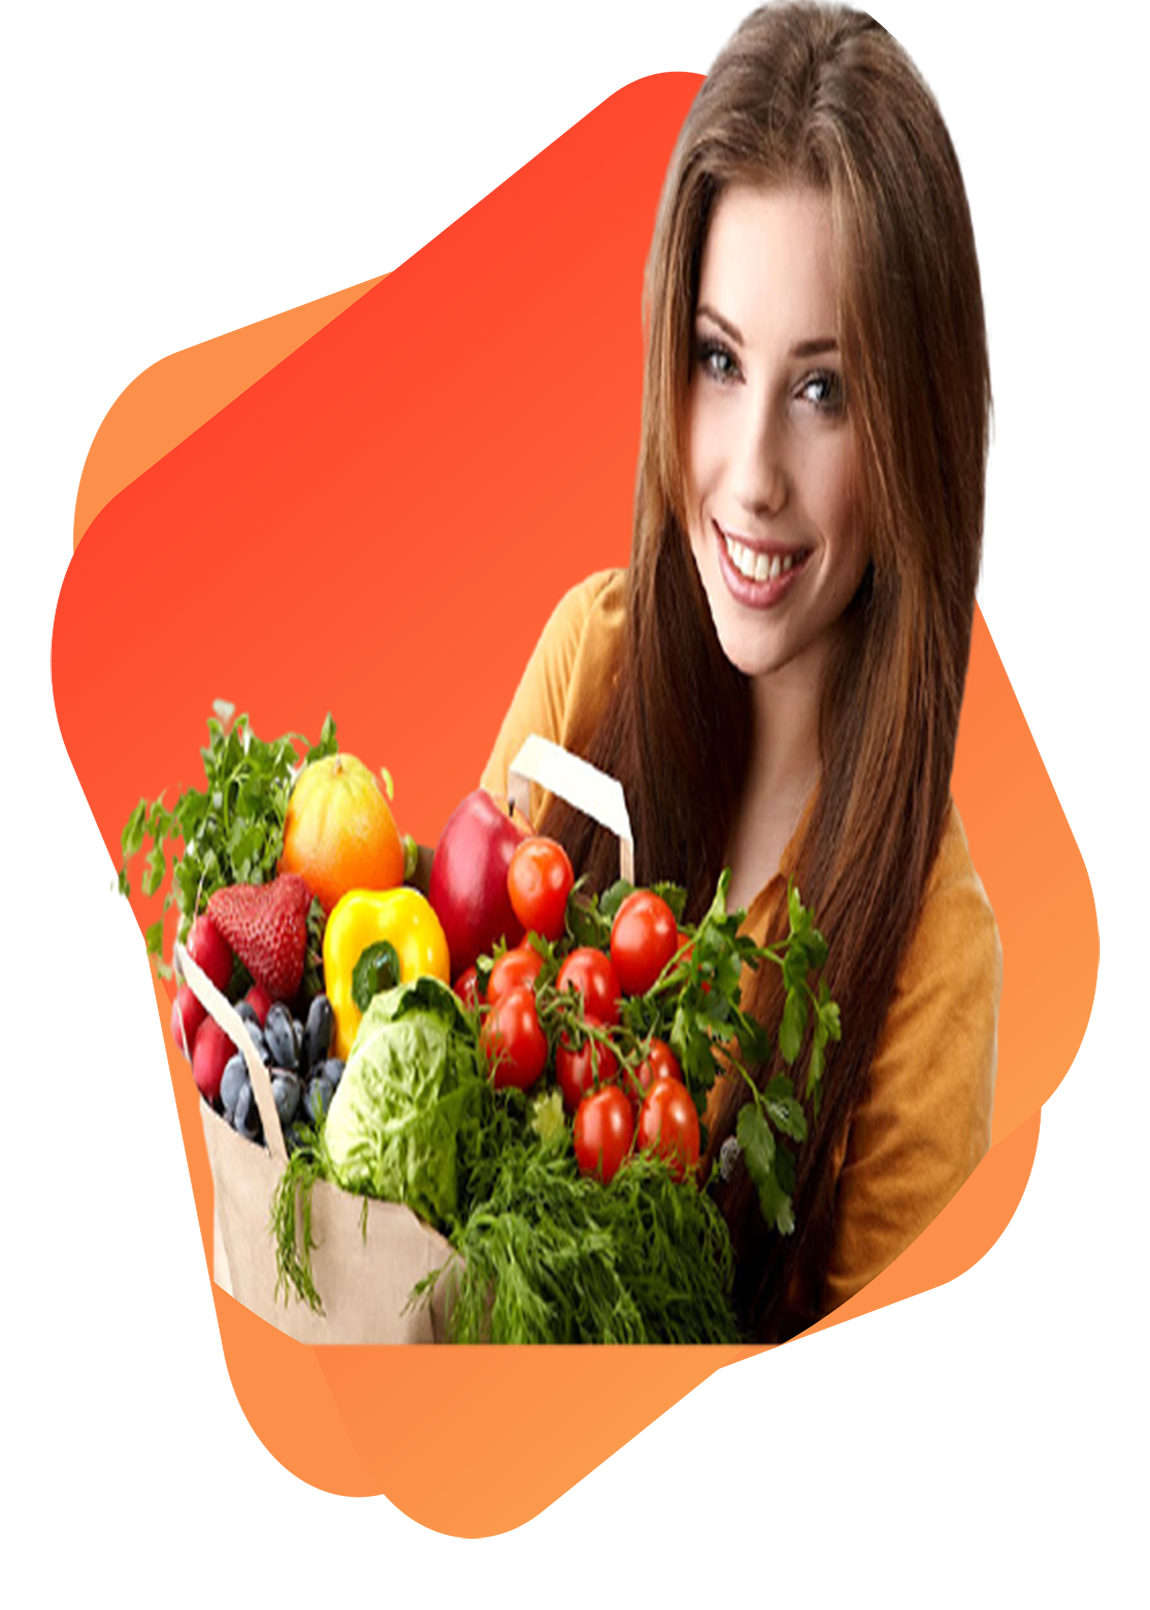
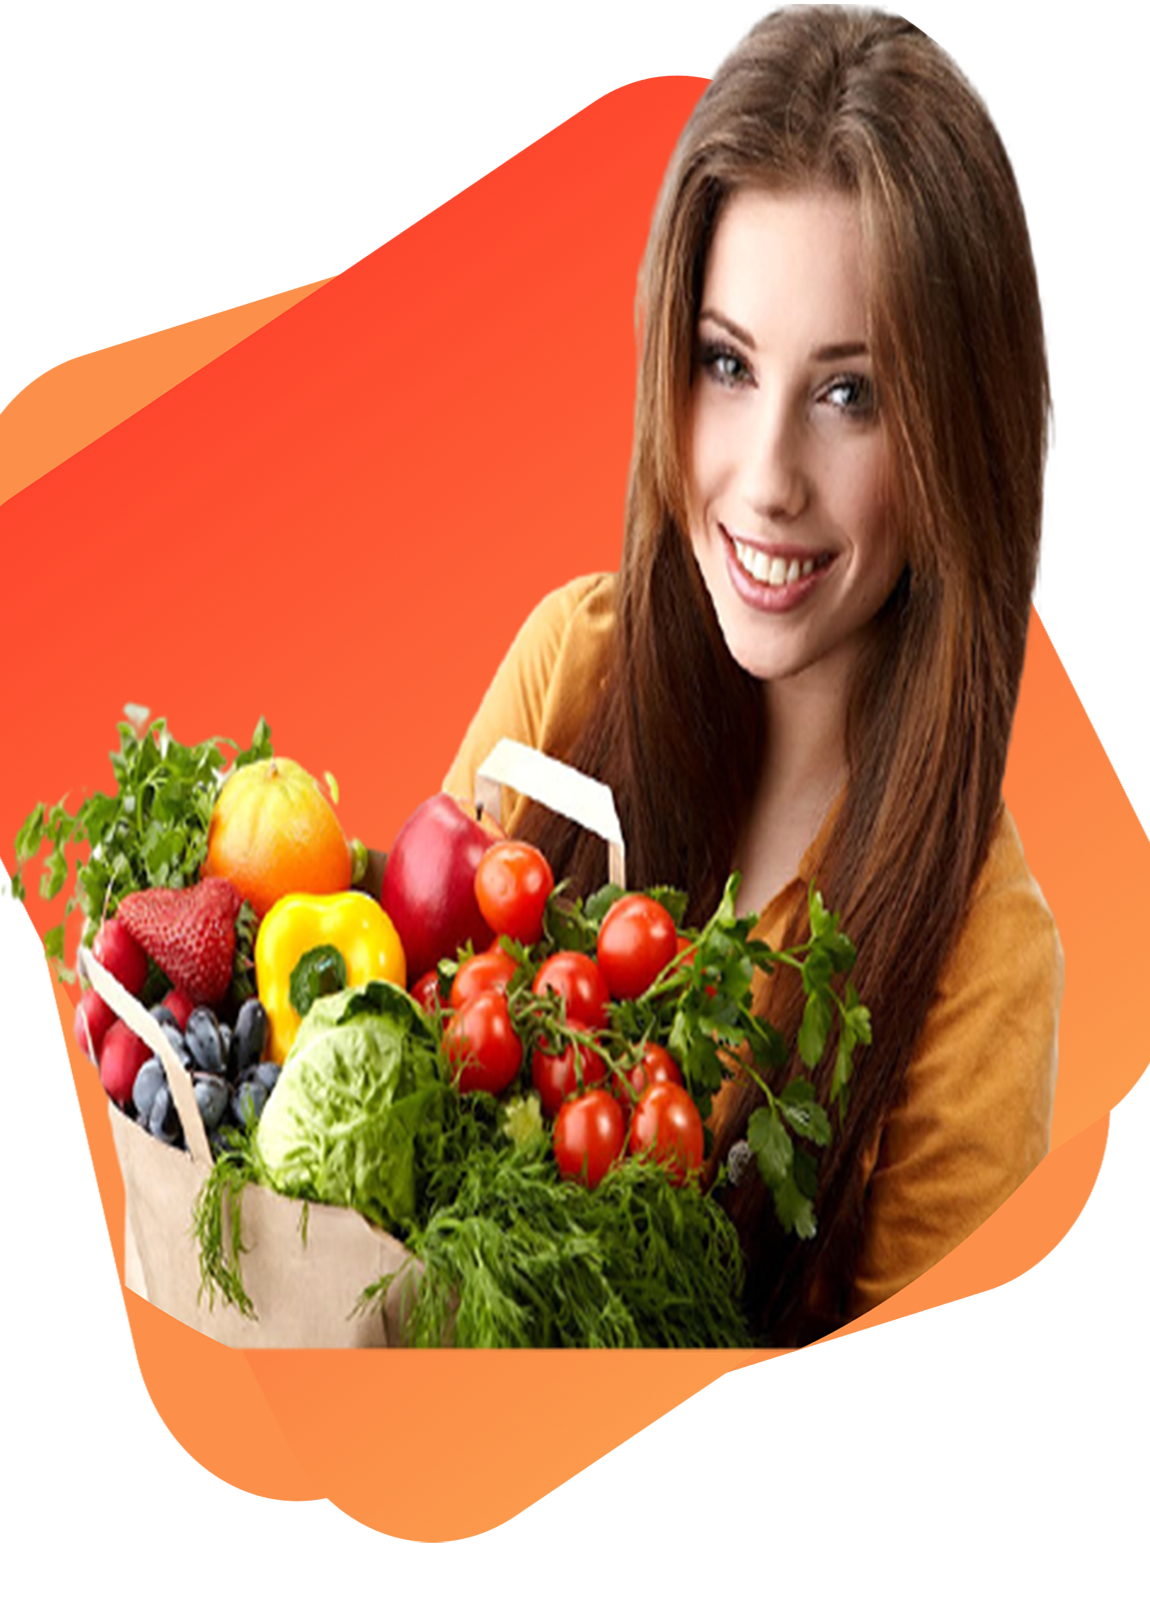
Modified some previous section & create About Me section.

diff --git a/css/style.css b/css/style.css
@@ -12,14 +12,17 @@ body {
 h1 {
     font-size: 45px;
     text-transform: capitalize;
+    color: #707070;
 }
 h2 {
     font-size: 40px;
     text-transform: capitalize;
+    color: #707070;
 }
 h3 {
     font-size: 35px;
     text-transform: capitalize;
+    color: #707070;
 }
 .half-content {
     max-width: 50%;
@@ -42,10 +45,10 @@ h3 {
     margin-top: 10px;
 }
 span.logo-text-part {
-    color: coral;
+    color: orangered;
 }
 .nav-menu {
-    padding-left: 10%;  
+    margin-left: 23%;  
 }
 .nav-menu ul li {
     display: inline-block;
@@ -65,7 +68,7 @@ span.logo-text-part {
     font-weight: 800;
 }
 .color-food-particle {
-    color: coral;
+    color: orangered;
     font-weight: 800;
 }
 .top-banner-left {
@@ -74,9 +77,10 @@ span.logo-text-part {
 .top-banner-left p {
     text-transform: capitalize;
     text-align: justify;
+    color: #707070;
 }
 .order-food-btn {
-    background-image: linear-gradient(to right, rgb(250, 131, 88), #0389F6);
+    background-image: linear-gradient(to right, rgb(253, 193, 171), #0389F6);
     padding: 15px 40px;
     border-radius: 30px;
     display: inline-block;
@@ -93,6 +97,38 @@ span.logo-text-part {
     max-width: 80%;
 }
 /* END TOP BANNER SECTION... */
+
+.section-three {
+    margin-top: 50px;
+    background-image: url(../images/Frame57.png);
+    background-repeat: no-repeat;
+}
+.about-me-right {
+    margin-right: 5%;
+}
+.about-me-right p {
+    text-align: justify;
+    color: #707070;
+} 
+.about-me-left img {
+    max-width: 55%;
+    margin: 30px 0 0 40px;
+    
+}
+.border-about-text {
+    border-bottom: 2px solid coral;
+}
+.contact-me-btn {
+    background-image: linear-gradient(to right, #a5d5fc, orangered);
+    padding: 15px 40px;
+    border-radius: 30px;
+    display: inline-block;
+    margin-top: 20px;
+    text-decoration: none;
+    color: #fff;
+    font-weight: 700;
+    cursor: pointer;
+}
 
 
 

diff --git a/index.html b/index.html
@@ -42,7 +42,17 @@
     <!-- END BANNER SECTION -->
 
     <!-- START ABOUT ME SECTION -->
-
+        <section class="section-three content-flexible">
+            <div class="about-me-left half-content">
+                <img src="images/banner-two-1.png" alt="About Me Image">
+            </div>
+            <div class="about-me-right half-content">
+                <h2><span class=border-about-text>About</span> Me</h2>
+                <p>Hi, I'm Sonjoy Barua John.</p>
+                <p>I have completed my B.Sc. in CSE degree from the Department of Computer Science Engineering of the University of Information Technology And Sciences, Baridhara, and Dhaka. My keen interest in Computer Science Engineering has enabled me to develop good knowledge and working ability in IT System Management.</p>
+                <a href="https://www.sonjoybarua.com.bd" target="_blank" class="contact-me-btn">Contact Me</a>
+            </div>
+        </section>
     <!-- END ABOUT ME SECTION -->
 
     
